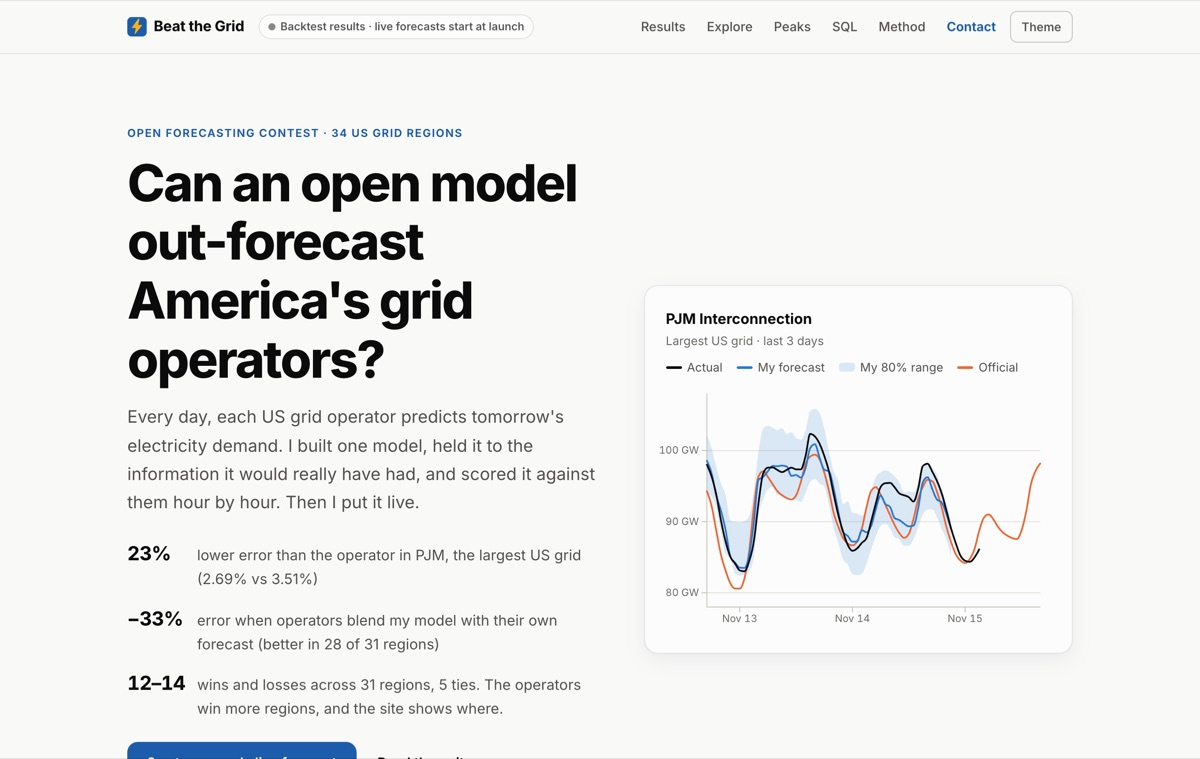
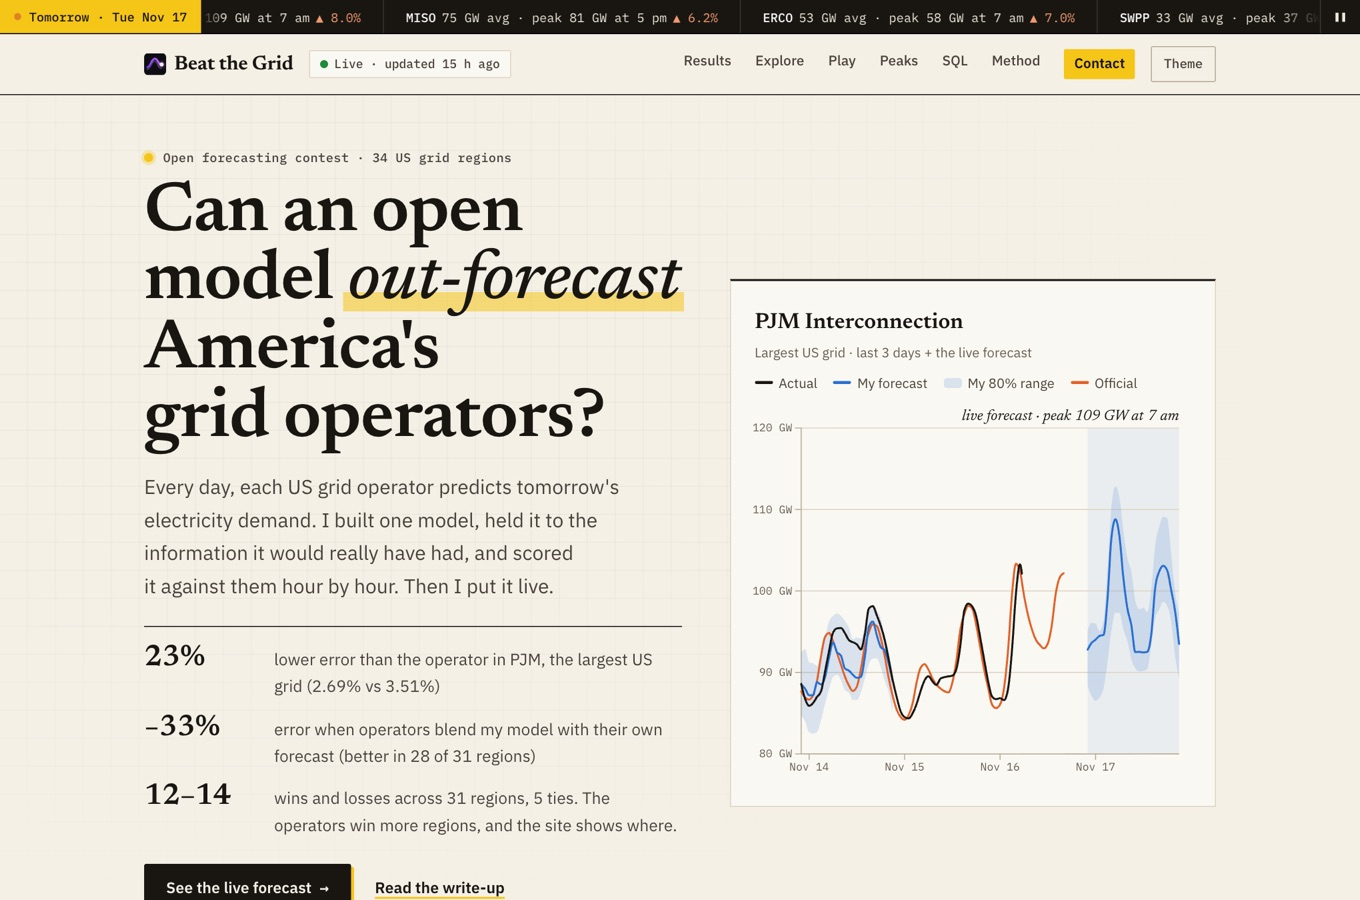
Editorial redesign to match Beat the Grid; ML monogram

diff --git a/index.html b/index.html
@@ -6,66 +6,90 @@
 <title>Maxwell Liston · Data projects</title>
 <meta name="description" content="Data analysis projects by Maxwell Liston, including Beat the Grid: an open model scored live against America's grid operators.">
 <link rel="canonical" href="https://maxliston.github.io/">
-<meta name="theme-color" content="#1c5cab">
+<meta name="theme-color" content="#0f0d14">
 <meta property="og:title" content="Maxwell Liston · Data projects">
 <meta property="og:description" content="Featured: Beat the Grid, an open model scored live against America's grid operators.">
 <meta property="og:image" content="https://maxliston.github.io/beat-the-grid/og.png">
 <meta name="twitter:card" content="summary_large_image">
-<link rel="icon" href="/beat-the-grid/favicon.svg" type="image/svg+xml">
-<link rel="preload" href="/beat-the-grid/fonts/inter-latin-wght-normal.woff2" as="font" type="font/woff2" crossorigin>
+<link rel="icon" href="favicon.svg" type="image/svg+xml">
+<link rel="preload" href="/beat-the-grid/fonts/newsreader-latin-wght-normal.woff2" as="font" type="font/woff2" crossorigin>
+<link rel="preload" href="/beat-the-grid/fonts/ibm-plex-sans-latin-400-normal.woff2" as="font" type="font/woff2" crossorigin>
 <style>
-@font-face{font-family:"Inter";src:url("/beat-the-grid/fonts/inter-latin-wght-normal.woff2") format("woff2");font-weight:100 900;font-display:swap}
-:root{--page:#f9f9f7;--surface:#fcfcfb;--ink:#0b0b0b;--ink2:#52514e;--ring:rgba(11,11,11,.10);--link:#1c5cab;--accent:#1c5cab;--on-accent:#fff}
-@media (prefers-color-scheme:dark){:root:not([data-theme="light"]){--page:#121211;--surface:#1a1a19;--ink:#f0efec;--ink2:#b5b3ad;--ring:rgba(255,255,255,.12);--link:#6da7ec;--accent:#6da7ec;--on-accent:#0b0b0b}}
-:root[data-theme="dark"]{--page:#121211;--surface:#1a1a19;--ink:#f0efec;--ink2:#b5b3ad;--ring:rgba(255,255,255,.12);--link:#6da7ec;--accent:#6da7ec;--on-accent:#0b0b0b}
+@font-face{font-family:"Newsreader";src:url("/beat-the-grid/fonts/newsreader-latin-wght-normal.woff2") format("woff2");font-weight:200 800;font-display:swap}
+@font-face{font-family:"Newsreader";src:url("/beat-the-grid/fonts/newsreader-latin-wght-italic.woff2") format("woff2");font-weight:200 800;font-style:italic;font-display:swap}
+@font-face{font-family:"IBM Plex Sans";src:url("/beat-the-grid/fonts/ibm-plex-sans-latin-400-normal.woff2") format("woff2");font-weight:400;font-display:swap}
+@font-face{font-family:"IBM Plex Sans";src:url("/beat-the-grid/fonts/ibm-plex-sans-latin-600-normal.woff2") format("woff2");font-weight:600;font-display:swap}
+@font-face{font-family:"IBM Plex Mono";src:url("/beat-the-grid/fonts/ibm-plex-mono-latin-400-normal.woff2") format("woff2");font-weight:400;font-display:swap}
+:root{--page:#f4f0e6;--surface:#faf8f2;--ink:#191612;--ink2:#48423a;--muted:#655e53;--grid:#dcd4c3;--link:#5b2fd6;--violet:#7a3cff;--hl:rgba(245,197,24,.55);--paper-line:rgba(25,22,18,.055)}
+@media (prefers-color-scheme:dark){:root:not([data-theme="light"]){--page:#14120f;--surface:#1e1b17;--ink:#f2ede3;--ink2:#cbc3b5;--muted:#a69e90;--grid:#2f2b25;--link:#b8a2ff;--hl:rgba(245,197,24,.28);--paper-line:rgba(242,237,227,.05)}}
+:root[data-theme="dark"]{--page:#14120f;--surface:#1e1b17;--ink:#f2ede3;--ink2:#cbc3b5;--muted:#a69e90;--grid:#2f2b25;--link:#b8a2ff;--hl:rgba(245,197,24,.28);--paper-line:rgba(242,237,227,.05)}
 *{box-sizing:border-box}
-body{margin:0;background:var(--page);color:var(--ink);font:17px/1.6 Inter,system-ui,-apple-system,sans-serif;-webkit-font-smoothing:antialiased}
-a{color:var(--link)}
-.wrap{max-width:880px;margin:0 auto;padding:0 24px}
+body{margin:0;background:var(--page);color:var(--ink);font:17px/1.65 "IBM Plex Sans",system-ui,sans-serif;-webkit-font-smoothing:antialiased}
+a{color:var(--link);text-underline-offset:3px}
+::selection{background:var(--hl)}
+.wrap{max-width:900px;margin:0 auto;padding:0 24px}
 @media (max-width:600px){.wrap{padding:0 16px}}
-header{padding:72px 0 32px}
-h1{font-size:clamp(32px,6vw,48px);line-height:1.1;letter-spacing:-.03em;margin:0 0 12px}
-.lede{font-size:19px;color:var(--ink2);margin:0;max-width:640px}
-.links{display:flex;gap:18px;flex-wrap:wrap;margin-top:18px;font-weight:550}
-.kicker{font-size:13px;font-weight:650;letter-spacing:.1em;text-transform:uppercase;color:var(--accent);margin:40px 0 12px}
-.feature{display:block;background:var(--surface);border:1px solid var(--ring);border-radius:14px;overflow:hidden;color:inherit;text-decoration:none;transition:transform .15s,box-shadow .15s}
-.feature:hover{transform:translateY(-2px);box-shadow:0 10px 30px rgba(0,0,0,.08)}
-.feature img{display:block;width:100%;height:auto;border-bottom:1px solid var(--ring)}
-.feature .body{padding:22px 24px 24px}
-.feature h2{margin:0 0 6px;font-size:24px;letter-spacing:-.02em}
-.feature p{margin:0 0 14px;color:var(--ink2)}
-.facts{display:flex;gap:10px;flex-wrap:wrap;margin:0 0 16px;padding:0;list-style:none}
-.facts li{font-size:14px;padding:4px 10px;border-radius:999px;border:1px solid var(--ring)}
-.btn{display:inline-block;background:var(--accent);color:var(--on-accent);font-weight:600;padding:10px 18px;border-radius:8px}
-.list{list-style:none;padding:0;margin:0;display:grid;gap:12px}
-.list a{display:block;padding:16px 18px;background:var(--surface);border:1px solid var(--ring);border-radius:10px;text-decoration:none;color:inherit}
-.list a:hover{border-color:var(--link)}
-.list b{display:block;color:var(--link)}
-.list span{font-size:15px;color:var(--ink2)}
-footer{padding:48px 0 40px;color:var(--ink2);font-size:14px}
-@media (prefers-reduced-motion:reduce){.feature{transition:none}.feature:hover{transform:none}}
+.mono{font-family:"IBM Plex Mono",ui-monospace,monospace}
+header{position:relative;isolation:isolate;padding:80px 0 40px;border-bottom:1px solid var(--ink)}
+header::before{content:"";position:absolute;inset:0;z-index:-1;background-image:linear-gradient(var(--paper-line) 1px,transparent 1px),linear-gradient(90deg,var(--paper-line) 1px,transparent 1px);background-size:28px 28px;-webkit-mask-image:radial-gradient(ellipse 80% 80% at 20% 30%,#000 30%,transparent 80%);mask-image:radial-gradient(ellipse 80% 80% at 20% 30%,#000 30%,transparent 80%)}
+.mark{display:inline-block;width:44px;height:44px;margin-bottom:22px}
+.eyebrow{font-family:"IBM Plex Mono",monospace;font-size:13px;color:var(--ink2);margin:0 0 10px}
+h1,h2{font-family:"Newsreader",Georgia,serif;font-weight:600;letter-spacing:-.012em;margin:0}
+h1{font-size:clamp(46px,8vw,84px);line-height:.98}
+h1 em{font-style:italic;font-weight:500;background:linear-gradient(transparent 64%,var(--hl) 64%,var(--hl) 92%,transparent 92%);padding:0 .05em}
+.lede{font-size:clamp(18px,2vw,21px);color:var(--ink2);max-width:40ch;margin:18px 0 0;text-wrap:balance}
+.links{display:flex;gap:22px;flex-wrap:wrap;margin-top:22px;font-family:"IBM Plex Mono",monospace;font-size:14px}
+.kicker{display:flex;align-items:center;gap:12px;font-family:"IBM Plex Mono",monospace;font-size:13px;color:var(--ink2);margin:52px 0 18px}
+.kicker b{background:#f5c518;color:#191612;font-weight:400;padding:1px 6px;border-radius:2px}
+.kicker::after{content:"";flex:1;border-top:1px solid var(--grid)}
+.feature{display:block;color:inherit;text-decoration:none;border:1px solid var(--grid);border-top:2px solid var(--ink);background:var(--surface);transition:transform .15s,box-shadow .15s}
+.feature:hover{transform:translate(-2px,-2px);box-shadow:6px 6px 0 var(--violet)}
+.feature img{display:block;width:100%;height:auto;border-bottom:1px solid var(--grid)}
+.feature .body{padding:24px 26px 26px}
+.feature h2{font-size:34px;margin:0 0 6px;display:flex;align-items:center;gap:12px}
+.feature h2 img{width:30px;height:30px;border:0}
+.feature p{margin:0 0 16px;color:var(--ink2);max-width:62ch}
+.facts{display:flex;gap:8px;flex-wrap:wrap;margin:0 0 20px;padding:0;list-style:none}
+.facts li{font-family:"IBM Plex Mono",monospace;font-size:12.5px;padding:3px 9px;border:1px solid var(--grid);border-radius:2px;color:var(--ink2)}
+.go{display:inline-flex;gap:8px;background:var(--ink);color:var(--page);font-weight:600;padding:11px 20px;border-radius:2px;box-shadow:3px 3px 0 var(--violet)}
+.go::after{content:"→";font-family:"IBM Plex Mono",monospace}
+.list{list-style:none;padding:0;margin:0;counter-reset:p}
+.list li{counter-increment:p;border-top:1px solid var(--grid)}
+.list li:last-child{border-bottom:1px solid var(--grid)}
+.list a{display:grid;grid-template-columns:44px 1fr auto;gap:4px 14px;align-items:baseline;padding:18px 4px;color:inherit;text-decoration:none}
+.list a::before{content:counter(p,decimal-leading-zero);font-family:"IBM Plex Mono",monospace;font-size:13px;color:var(--muted);grid-row:span 2}
+.list a::after{content:"↗";font-family:"IBM Plex Mono",monospace;color:var(--muted);grid-row:span 2;transition:transform .15s}
+.list a:hover::after{transform:translate(2px,-2px);color:var(--link)}
+.list b{font-family:"Newsreader",Georgia,serif;font-size:23px;font-weight:600;line-height:1.2}
+.list a:hover b{text-decoration:underline;text-decoration-color:var(--violet);text-decoration-thickness:2px;text-underline-offset:4px}
+.list span{font-size:15px;color:var(--ink2);grid-column:2}
+footer{margin-top:56px;padding:28px 0 44px;border-top:1px solid var(--ink);color:var(--muted);font-size:14px}
+footer p{font-family:"Newsreader",Georgia,serif;font-size:21px;color:var(--ink);margin:0 0 6px}
+@media (prefers-reduced-motion:reduce){.feature,.list a::after{transition:none}.feature:hover{transform:none}}
 </style>
 </head>
 <body>
 <main class="wrap">
 <header>
-  <h1>Maxwell Liston</h1>
-  <p class="lede">Data analysis projects built on real public data, with the method, the code and the results that didn't go my way all in the open.</p>
-  <p class="links"><a href="https://github.com/MaxListon">GitHub</a><a href="https://linkedin.com/in/maxwell-liston" rel="noopener">LinkedIn</a></p>
+  <img class="mark" src="favicon.svg" width="44" height="44" alt="">
+  <p class="eyebrow">Data analysis · Python · SQL · statistics</p>
+  <h1>Maxwell <em>Liston</em></h1>
+  <p class="lede">Data projects built on real public data, with the method, the code, and the results that didn't go my way, all in the open.</p>
+  <p class="links"><a href="https://github.com/MaxListon">GitHub ↗</a><a href="https://linkedin.com/in/maxwell-liston" rel="noopener">LinkedIn ↗</a></p>
 </header>
 
-<p class="kicker">Featured project</p>
+<p class="kicker"><b>01</b> Featured project</p>
 <a class="feature" href="/beat-the-grid/">
-  <img src="beat-the-grid.jpg" width="1200" height="759" alt="Beat the Grid website: a chart of PJM electricity demand with my forecast and the grid operator's forecast">
+  <img src="beat-the-grid.jpg" width="1360" height="900" alt="Beat the Grid website: the question 'Can an open model out-forecast America's grid operators?' beside a chart of PJM electricity demand with the live forecast">
   <div class="body">
-    <h2>Beat the Grid</h2>
-    <p>Can one open model out-forecast America's grid operators? A fair, walk-forward contest across 34 US grid regions, now running live: a new forecast is published every day before the day begins.</p>
+    <h2><img src="/beat-the-grid/favicon.svg" alt="">Beat the Grid</h2>
+    <p>Can one open model out-forecast America's grid operators? A fair, walk-forward contest across 34 US grid regions, now running live: a new forecast is published every day before the day begins. You can even try to beat the model yourself.</p>
     <ul class="facts"><li>Python · LightGBM</li><li>SQL in the browser (DuckDB)</li><li>Significance testing</li><li>Live on GitHub Actions</li><li>D3.js</li></ul>
-    <span class="btn">Open the live site →</span>
+    <span class="go">Open the live site</span>
   </div>
 </a>
 
-<p class="kicker">More projects</p>
+<p class="kicker"><b>02</b> More projects</p>
 <ul class="list">
   <li><a href="https://github.com/MaxListon/ga4-funnel"><b>GA4 checkout funnel</b><span>E-commerce funnel, attribution and tracking-gap analysis on Google Analytics 4 data (BigQuery, DuckDB, Python, Streamlit).</span></a></li>
   <li><a href="https://github.com/MaxListon/loanflow-operations-analytics"><b>LoanFlow operations analytics</b><span>1.2M loan events: SQL reporting, process analysis in Python, and an interactive dashboard.</span></a></li>
@@ -75,7 +99,7 @@ footer{padding:48px 0 40px;color:var(--ink2);font-size:14px}
   <li><a href="https://github.com/MaxListon/checkout-experiment-analysis"><b>Checkout A/B test analysis</b><span>End-to-end experiment readout with SQL and Python (simulated data).</span></a></li>
 </ul>
 
-<footer>© 2026 Maxwell Liston · <a href="https://github.com/MaxListon">github.com/MaxListon</a></footer>
+<footer><p>Thanks for looking.</p>© 2026 Maxwell Liston · <a href="https://github.com/MaxListon">github.com/MaxListon</a></footer>
 </main>
 </body>
 </html>
